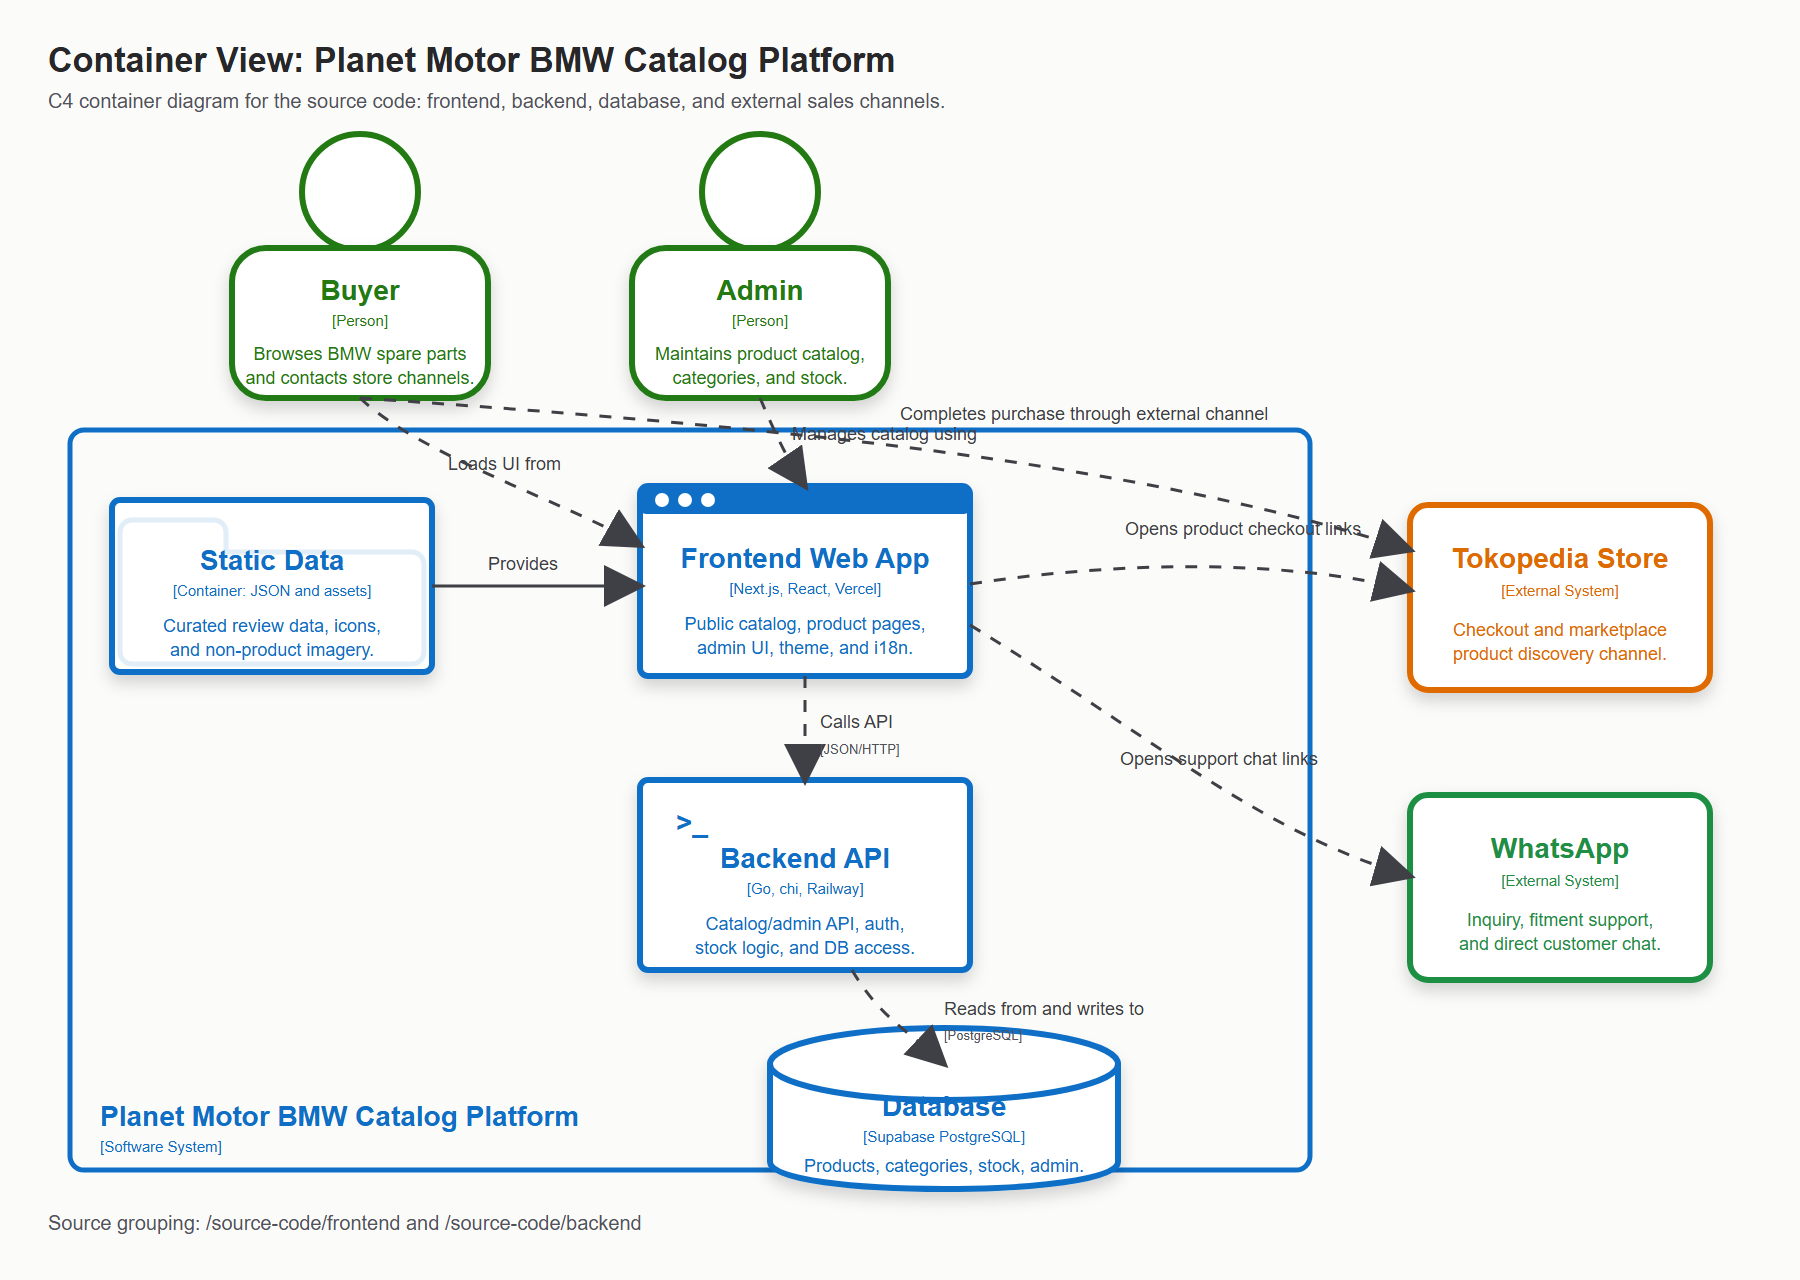
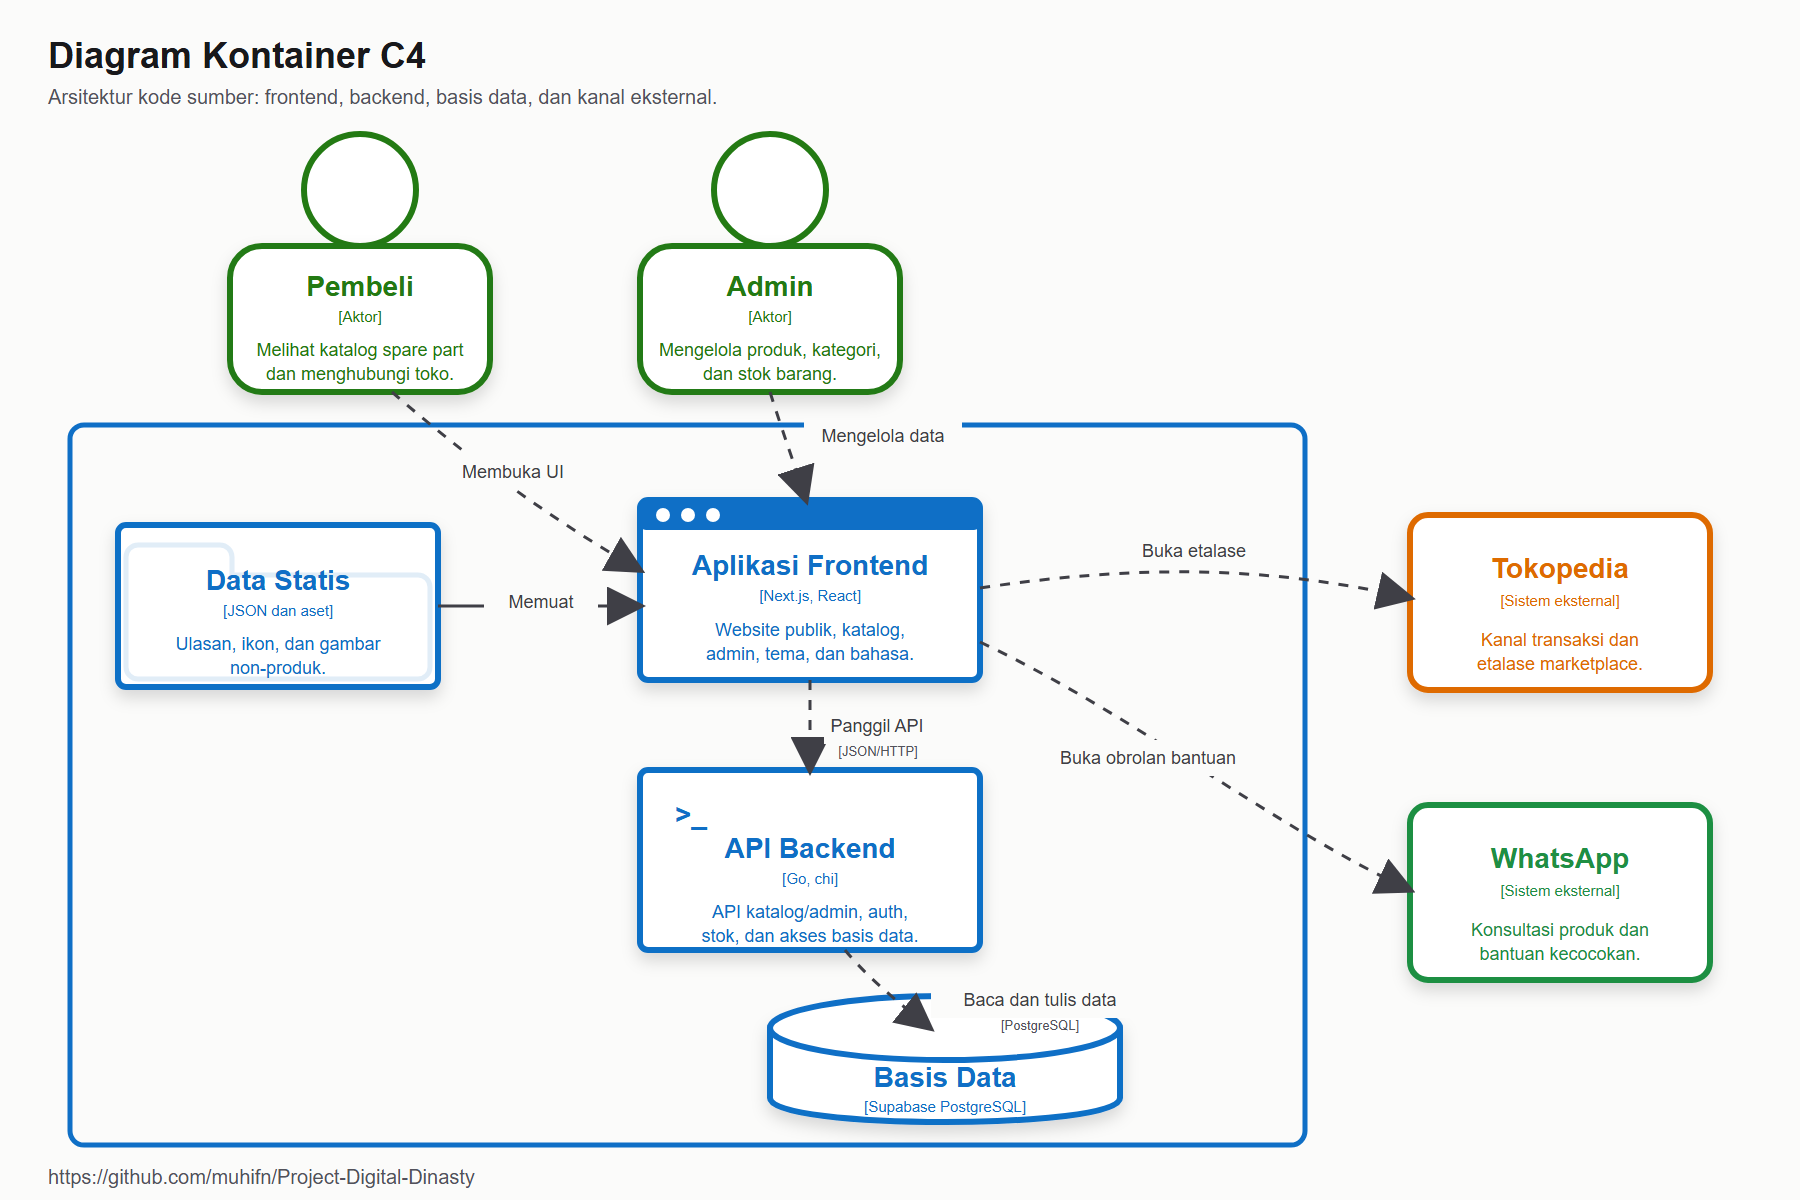
polish c4 diagram bahasa indonesia

Changed region(s): [[0.0311, 0.0308, 0.9644, 0.9867]]

diff --git a/README.md b/README.md
@@ -1,53 +1,53 @@
 # Planet Motor BMW
 
-Planet Motor BMW adalah platform katalog spare part BMW berbasis web. Project ini dibuat sebagai company profile, katalog produk, dan admin inventory sederhana untuk membantu pembeli melihat kategori produk, membaca detail produk, lalu melanjutkan komunikasi atau transaksi melalui channel resmi toko.
+Planet Motor BMW adalah platform katalog spare part BMW berbasis web. Project ini dibuat sebagai company profile, katalog produk, dan admin inventory sederhana untuk membantu pembeli melihat kategori produk, membaca detail produk, lalu melanjutkan komunikasi atau transaksi melalui kanal resmi toko.
 
 Project ini bukan SaaS dan bukan ecommerce internal penuh. Website tidak menyimpan checkout internal, order internal, atau upload bukti pembayaran. Alur pembelian diarahkan ke Tokopedia, sementara konsultasi produk diarahkan ke WhatsApp.
 
-## Source Code
+## Kode Sumber
 
-Source code dipisahkan dalam folder khusus:
+Kode sumber dipisahkan dalam folder khusus:
 
 ```text
 source-code/
-  frontend/   Next.js frontend website dan admin UI
-  backend/    Go REST API untuk katalog, auth admin, kategori, produk, dan stok
+  frontend/   Aplikasi frontend Next.js dan admin UI
+  backend/    REST API Go untuk katalog, auth admin, kategori, produk, dan stok
 ```
 
 Folder build, dependency lokal, file environment lokal, dan E2E tidak disertakan.
 
-## C4 Container Diagram
+## Diagram Kontainer C4
 
-![C4 Container Diagram](docs/assets/c4-container-diagram.png)
+![Diagram Kontainer C4](docs/assets/c4-container-diagram.png)
 
 Diagram di atas menjelaskan hubungan utama antar bagian sistem:
 
-- Buyer membuka frontend untuk melihat katalog dan mengarah ke Tokopedia atau WhatsApp.
+- Pembeli membuka frontend untuk melihat katalog dan mengarah ke Tokopedia atau WhatsApp.
 - Admin menggunakan frontend admin untuk mengelola produk, kategori, dan stok.
 - Frontend Next.js mengambil data melalui backend Go API.
 - Backend Go API membaca dan menulis data ke Supabase PostgreSQL.
-- Tokopedia dan WhatsApp berperan sebagai external sales/support channel.
+- Tokopedia dan WhatsApp berperan sebagai kanal eksternal untuk transaksi dan konsultasi.
 
 ## Arsitektur Platform
 
-| Layer | Teknologi | Peran |
+| Lapisan | Teknologi | Peran |
 | --- | --- | --- |
-| Frontend | Next.js, React, TypeScript, Tailwind CSS | Public website, katalog produk, detail produk, admin UI |
-| Backend | Go, chi, pgx/sqlx | REST API, auth admin, catalog logic, stock logic |
-| Database | Supabase PostgreSQL | Penyimpanan data produk, kategori, stok, admin, dan setting toko |
-| External Channel | Tokopedia, WhatsApp | Checkout marketplace dan komunikasi customer |
+| Frontend | Next.js, React, TypeScript, Tailwind CSS | Website publik, katalog produk, detail produk, dan admin UI |
+| Backend | Go, chi, pgx/sqlx | API REST, autentikasi admin, logika katalog, dan logika stok |
+| Basis Data | Supabase PostgreSQL | Penyimpanan data produk, kategori, stok, admin, dan pengaturan toko |
+| Kanal Eksternal | Tokopedia, WhatsApp | Proses transaksi marketplace dan komunikasi pelanggan |
 
 ## Fitur Utama
 
 - Homepage dan halaman informasi toko.
-- Katalog produk dengan kategori, search, sort, dan product detail.
-- Product image menggunakan `product.imageUrl` dari backend.
-- Review Tokopedia ditampilkan dari curated JSON data.
-- CTA Tokopedia dan WhatsApp.
-- Admin login menggunakan cookie auth dari backend.
-- Admin product CRUD, category CRUD, dashboard stok, dan low stock summary.
-- Stock snapshot dan fallback stream.
-- Theme switch dan language switch.
+- Katalog produk dengan kategori, pencarian, sorting, dan detail produk.
+- Gambar produk menggunakan `product.imageUrl` dari backend.
+- Review Tokopedia ditampilkan dari data JSON yang sudah dikurasi.
+- Tombol aksi Tokopedia dan WhatsApp.
+- Login admin menggunakan cookie autentikasi dari backend.
+- Pengelolaan produk, pengelolaan kategori, dashboard stok, dan ringkasan stok rendah.
+- Snapshot stok dan stream stok cadangan.
+- Pengubah tema dan pilihan bahasa.
 
 ## Menjalankan Frontend
 
@@ -57,7 +57,7 @@ npm install
 npm run dev
 ```
 
-Environment lokal contoh:
+Contoh environment lokal:
 
 ```bash
 GO_API_URL=http://localhost:8080
@@ -73,7 +73,7 @@ go mod download
 go run ./cmd/server
 ```
 
-Environment lokal contoh:
+Contoh environment lokal:
 
 ```bash
 DATABASE_URL=postgresql://postgres:password@localhost:5432/planet_motor_bmw?sslmode=disable
@@ -82,7 +82,7 @@ PORT=8080
 CORS_ORIGINS=http://localhost:3000
 ```
 
-## Testing Plan
+## Rencana Pengujian
 
 Frontend:
 
@@ -102,20 +102,20 @@ go build -tags netgo -ldflags "-s -w" -o planet-motor-bmw-api ./cmd/server
 
 Validasi manual:
 
-- Public homepage menampilkan produk dan kategori.
-- Product detail membuka data produk yang benar.
+- Homepage publik menampilkan produk dan kategori.
+- Detail produk membuka data produk yang benar.
 - CTA Tokopedia dan WhatsApp muncul pada halaman yang sesuai.
-- Admin dapat login dan mengelola produk/kategori/stok.
+- Admin dapat login dan mengelola produk, kategori, dan stok.
 - Produk yang dihapus tidak muncul lagi di katalog.
-- Tidak ada flow cart, checkout internal, order internal, atau upload payment proof.
+- Tidak ada alur keranjang, transaksi internal, pesanan internal, atau upload bukti pembayaran.
 
 ## Keamanan
 
-- File `.env`, `.env.local`, token, cookie, database URL production, dan secret tidak disertakan.
+- File `.env`, `.env.local`, token, cookie, URL basis data produksi, dan rahasia aplikasi tidak disertakan.
 - Browser tidak mengakses Supabase secara langsung.
-- Backend menjadi satu-satunya layer yang mengakses database.
-- File production deployment URL tidak dicantumkan dalam repo pengumpulan ini.
+- Backend menjadi satu-satunya lapisan yang mengakses basis data.
+- URL deployment produksi tidak dicantumkan dalam repo pengumpulan ini.
 
 ## Catatan
 
-Repository ini disusun untuk kebutuhan implementasi perkuliahan: desain UI, arsitektur platform, konteks frontend-backend, source code, dan testing plan.
+Repository ini disusun untuk kebutuhan implementasi perkuliahan: desain UI, arsitektur platform, konteks frontend-backend, kode sumber, dan rencana pengujian.
